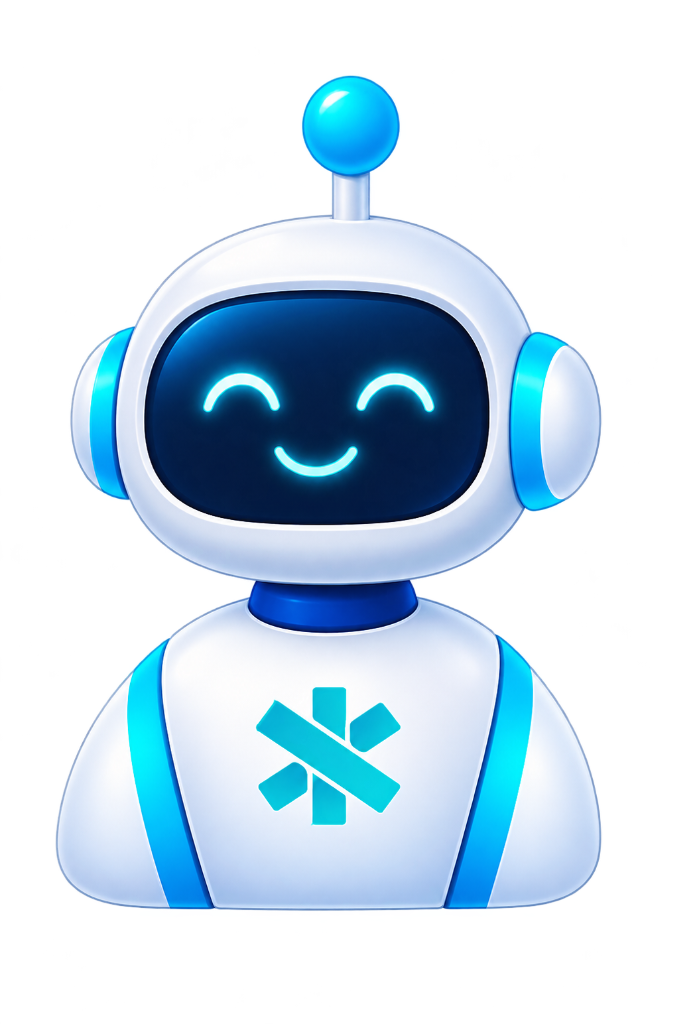
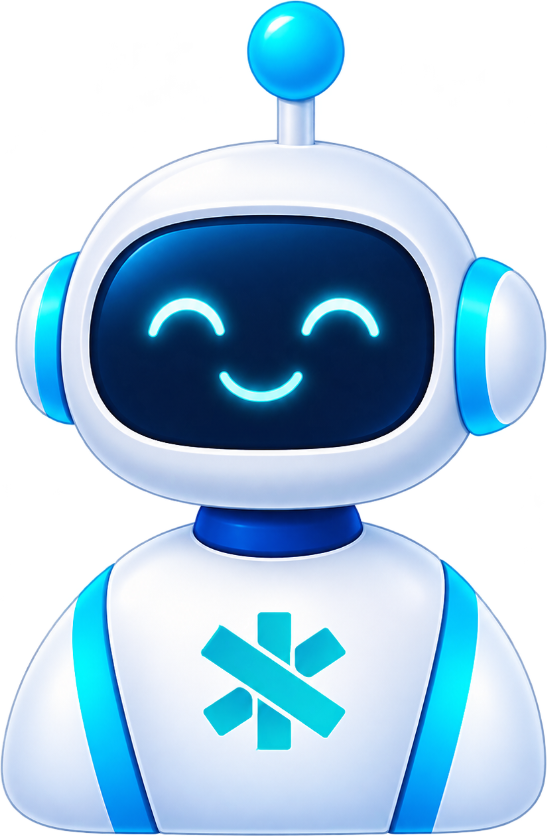
.

diff --git a/css/storefront.css b/css/storefront.css
@@ -316,22 +316,30 @@ html,body{width:100%;max-width:100%;overflow-x:clip}
 .bulk-match-list{display:grid;gap:10px;margin:16px 0;max-height:300px;overflow-y:auto}
 .bulk-match-row{display:grid;grid-template-columns:52px minmax(0,1fr) 90px;align-items:center;gap:12px;padding:8px 10px;border:1px solid var(--line);border-radius:8px;background:#f9fbf9}
 
-.swm-assistant-toggle{position:fixed;left:18px;bottom:18px;z-index:95;width:62px;height:86px;padding:0;border:0;background:transparent;display:grid;place-items:center;cursor:pointer;filter:drop-shadow(0 8px 18px rgba(6,59,60,.28));transition:transform .28s cubic-bezier(.22,1,.36,1),filter .28s ease}
-.swm-assistant-toggle img{width:100%;height:100%;object-fit:contain;display:block;pointer-events:none}
-.swm-assistant-toggle:hover{transform:translateY(-4px) scale(1.06);filter:drop-shadow(0 12px 24px rgba(0,140,255,.32))}
-.swm-assistant-toggle:active{transform:scale(.95)}
-.swm-assistant-panel{position:fixed;left:18px;bottom:110px;z-index:110;width:min(410px,calc(100vw - 32px));background:#fff;border:1px solid var(--line);border-radius:14px;box-shadow:0 16px 40px rgba(6,59,60,.22);overflow:hidden}
+.swm-assistant-toggle{position:fixed;left:14px;bottom:0;z-index:95;width:67px;height:93px;padding:0;margin:0;border:0!important;background:none!important;box-shadow:none!important;outline:none;display:flex;align-items:flex-end;justify-content:center;cursor:pointer;filter:none;transition:transform .28s cubic-bezier(.22,1,.36,1);transform-origin:bottom center}
+.swm-assistant-toggle img{width:100%;height:100%;object-fit:contain;object-position:bottom center;display:block;pointer-events:none;background:none!important;border:0!important;box-shadow:none!important;filter:none!important}
+.swm-assistant-toggle:hover,.swm-assistant-toggle:focus-visible{transform:scale(1.06);background:none!important;box-shadow:none!important;outline:none;filter:none}
+.swm-assistant-toggle:active{transform:scale(.95);background:none!important}
+.swm-assistant-panel{position:fixed;left:14px;bottom:98px;z-index:110;width:min(410px,calc(100vw - 32px));background:#fff;border:1px solid var(--line);border-radius:14px;box-shadow:0 16px 40px rgba(6,59,60,.22);overflow:hidden}
+@media(min-width:1024px) and (max-width:1439px){
+  .swm-assistant-toggle{width:68.2px;height:94.6px}
+  .swm-assistant-panel{bottom:100px}
+}
+@media(min-width:1440px){
+  .swm-assistant-toggle{width:74.4px;height:103.2px}
+  .swm-assistant-panel{bottom:108px}
+}
 .swm-assistant-head{background:var(--dark);color:#fff;padding:10px 14px;display:flex;align-items:center;justify-content:space-between;font-size:12.5px;font-weight:700}
 .swm-assistant-head button{border:0;background:transparent;color:#fff;font-size:16px}
-.swm-assistant-body{padding:11px 12px;display:grid;gap:9px;font-size:11.5px;max-height:310px;overflow-y:auto}
-.ai-coming-soon-box{background:linear-gradient(135deg,#eef7f3 0%,#f8fbf9 100%);border:1px solid #cce0d5;border-radius:9px;padding:9px 11px;display:grid;gap:5px}
-.ai-soon-badge{display:inline-flex;align-items:center;width:fit-content;padding:3px 9px;border-radius:999px;background:var(--dark);color:#fff;font-size:9.5px;font-weight:800;letter-spacing:.08em}
+.swm-assistant-body{padding:11px 12px;display:grid;gap:9px;font-size:11.5px;max-height:310px;overflow-y:auto;background:transparent}
+.ai-coming-soon-box{background:transparent;border:0;border-bottom:1px solid var(--line);border-radius:0;padding:2px 0 9px;display:grid;gap:5px}
+.ai-soon-badge{display:inline-flex;align-items:center;width:fit-content;padding:0;border-radius:0;background:transparent;color:var(--teal);font-size:9.5px;font-weight:800;letter-spacing:.08em}
 .ai-soon-lead{margin:0;font-size:11.5px;line-height:1.5;color:var(--ink);font-weight:600}
 .ai-guide-points{margin:0;padding-left:16px;display:grid;gap:4px;font-size:11px;line-height:1.45;color:var(--muted)}
 .ai-guide-points strong{color:var(--teal)}
-.ai-category-directory{display:grid;gap:9px}
-.ai-cat-block{background:#fbfdfb;border:1px solid #dfebe4;border-radius:9px;padding:9px 10px;display:grid;gap:6px;transition:border-color .2s,box-shadow .2s}
-.ai-cat-block:hover{border-color:var(--teal);box-shadow:0 4px 12px rgba(6,59,60,.06)}
+.ai-category-directory{display:grid;gap:8px;background:transparent}
+.ai-cat-block{background:transparent;border:0;border-bottom:1px dashed #dfebe4;border-radius:0;padding:4px 0 8px;display:grid;gap:5px}
+.ai-cat-block:last-child{border-bottom:0;padding-bottom:2px}
 .ai-cat-link{display:flex;align-items:center;justify-content:space-between;gap:8px;text-decoration:none;color:var(--ink)}
 .ai-cat-link strong{font-size:12px;color:var(--dark);transition:color .2s}
 .ai-cat-link span{font-size:10.5px;font-weight:700;color:var(--teal);white-space:nowrap}
@@ -339,7 +347,7 @@ html,body{width:100%;max-width:100%;overflow-x:clip}
 .ai-cat-product-line{display:flex;flex-wrap:nowrap;overflow-x:auto;gap:6px;padding-bottom:3px;scrollbar-width:thin}
 .ai-cat-product-line::-webkit-scrollbar{height:4px}
 .ai-cat-product-line::-webkit-scrollbar-thumb{background:#cad9cf;border-radius:999px}
-.ai-prod-pill{flex:none;white-space:nowrap;max-width:210px;overflow:hidden;text-overflow:ellipsis;padding:4px 9px;border-radius:999px;background:#eef5f0;border:1px solid #cde0d4;color:var(--ink);font-size:10.5px;font-weight:600;text-decoration:none;transition:background-color .2s,border-color .2s,color .2s}
+.ai-prod-pill{flex:none;white-space:nowrap;max-width:210px;overflow:hidden;text-overflow:ellipsis;padding:4px 9px;border-radius:999px;background:transparent;border:1px solid #cde0d4;color:var(--ink);font-size:10.5px;font-weight:600;text-decoration:none;transition:background-color .2s,border-color .2s,color .2s}
 .ai-prod-pill:hover{background:var(--teal);border-color:var(--teal);color:#fff}
 .swm-assistant-chips{display:flex;flex-wrap:wrap;gap:6px}
 .swm-assistant-chips button{border:1px solid #c6d8cd;background:#f2f7f4;color:var(--teal);border-radius:999px;padding:5px 10px;font-size:11px;font-weight:600}
@@ -387,13 +395,13 @@ html,body{width:100%;max-width:100%;overflow-x:clip}
   .quickview-layout{grid-template-columns:1fr}
   .product-grid.is-list-view .product-card{grid-template-columns:115px minmax(0,1fr)}
   .swm-assistant-toggle,.swm-assistant-panel{display:none!important}
-  .mobile-contact-assistant{display:block;padding-bottom:6px}
-  .mobile-assistant-card{background:#fff;border:1px solid var(--line);border-radius:14px;overflow:hidden;box-shadow:0 4px 16px rgba(6,59,60,.06)}
-  .mobile-assistant-hero{display:grid;grid-template-columns:76px minmax(0,1fr);align-items:center;gap:14px;padding:16px;background:linear-gradient(135deg,#eaf4ef 0%,#f7fbf9 100%);border-bottom:1px solid var(--line)}
-  .mobile-assistant-hero img{width:76px;height:112px;object-fit:contain;filter:drop-shadow(0 6px 14px rgba(6,59,60,.18))}
+  .mobile-contact-assistant{display:block;padding-bottom:6px;background:transparent}
+  .mobile-assistant-card{background:transparent;border:1px solid var(--line);border-radius:14px;overflow:hidden;box-shadow:none}
+  .mobile-assistant-hero{display:grid;grid-template-columns:76px minmax(0,1fr);align-items:center;gap:14px;padding:16px;background:transparent;border-bottom:1px solid var(--line)}
+  .mobile-assistant-hero img{width:76px;height:112px;object-fit:contain;background:none!important;filter:none!important}
   .mobile-assistant-hero h2{font-size:18px;margin-bottom:4px}
   .mobile-assistant-hero p{font-size:12px;color:var(--muted);margin:0;line-height:1.45}
-  .mobile-assistant-card .swm-assistant-body{max-height:none;padding:15px}
+  .mobile-assistant-card .swm-assistant-body{max-height:none;padding:15px;background:transparent}
 }
 
 /* Complete B2B Medical Procurement Options: Mega-Menu Explorer, Hospital Setup Planner, EMI/Finance Calculator, Order Tracker, AMC/CMC Configurator, Buyer GST Profile & Subcategory Strip */

diff --git a/js/store.js b/js/store.js
@@ -610,12 +610,12 @@
     toggle.className = 'swm-assistant-toggle';
     toggle.setAttribute('aria-expanded', 'false');
     toggle.setAttribute('aria-label', 'Open AI Procurement Assistant');
-    toggle.innerHTML = `<img src="assets/ai-assistant-robot.png" width="675" height="1024" alt="AI Procurement Assistant">`;
+    toggle.innerHTML = `<img src="assets/ai-assistant-robot.png" width="547" height="836" alt="AI Procurement Assistant">`;
     const panel = document.createElement('aside');
     panel.className = 'swm-assistant-panel';
     panel.hidden = true;
     panel.setAttribute('aria-label', 'Surgical Wholesale Mart Procurement Assistant');
-    panel.innerHTML = `<div class="swm-assistant-head"><span style="display:inline-flex;align-items:center;gap:8px"><img src="assets/ai-assistant-robot.png" width="28" height="42" alt="" style="width:24px;height:36px;object-fit:contain"><span>Surgical Mart AI Assistant</span></span><button type="button" data-close-assistant aria-label="Close assistant">×</button></div>${assistantBodyHTML}`;
+    panel.innerHTML = `<div class="swm-assistant-head"><span style="display:inline-flex;align-items:center;gap:8px"><img src="assets/ai-assistant-robot.png" width="24" height="36" alt="" style="width:24px;height:36px;object-fit:contain"><span>Surgical Mart AI Assistant</span></span><button type="button" data-close-assistant aria-label="Close assistant">×</button></div>${assistantBodyHTML}`;
     document.body.append(toggle, panel);
     toggle.addEventListener('click', () => {
       const open = panel.hidden;
@@ -628,7 +628,7 @@
         const inlineSection = document.createElement('section');
         inlineSection.className = 'section mobile-contact-assistant';
         inlineSection.setAttribute('aria-label', 'AI Procurement Assistant');
-        inlineSection.innerHTML = `<div class="mobile-assistant-card"><div class="mobile-assistant-hero"><img src="assets/ai-assistant-robot.png" width="675" height="1024" alt="Surgical Mart AI Procurement Robot"><div><span class="eyebrow">AI ASSISTANT · COMING SOON</span><h2>Ready-Made Product Explorer</h2><p>AI is coming soon—tap any category or product below.</p></div></div>${assistantBodyHTML.replace('id="assist-search-input"', 'id="assist-search-input-mobile"')}</div>`;
+        inlineSection.innerHTML = `<div class="mobile-assistant-card"><div class="mobile-assistant-hero"><img src="assets/ai-assistant-robot.png" width="547" height="836" alt="Surgical Mart AI Procurement Robot"><div><span class="eyebrow">AI ASSISTANT · COMING SOON</span><h2>Ready-Made Product Explorer</h2><p>AI is coming soon—tap any category or product below.</p></div></div>${assistantBodyHTML.replace('id="assist-search-input"', 'id="assist-search-input-mobile"')}</div>`;
         contactTarget.before(inlineSection);
       }
     }
